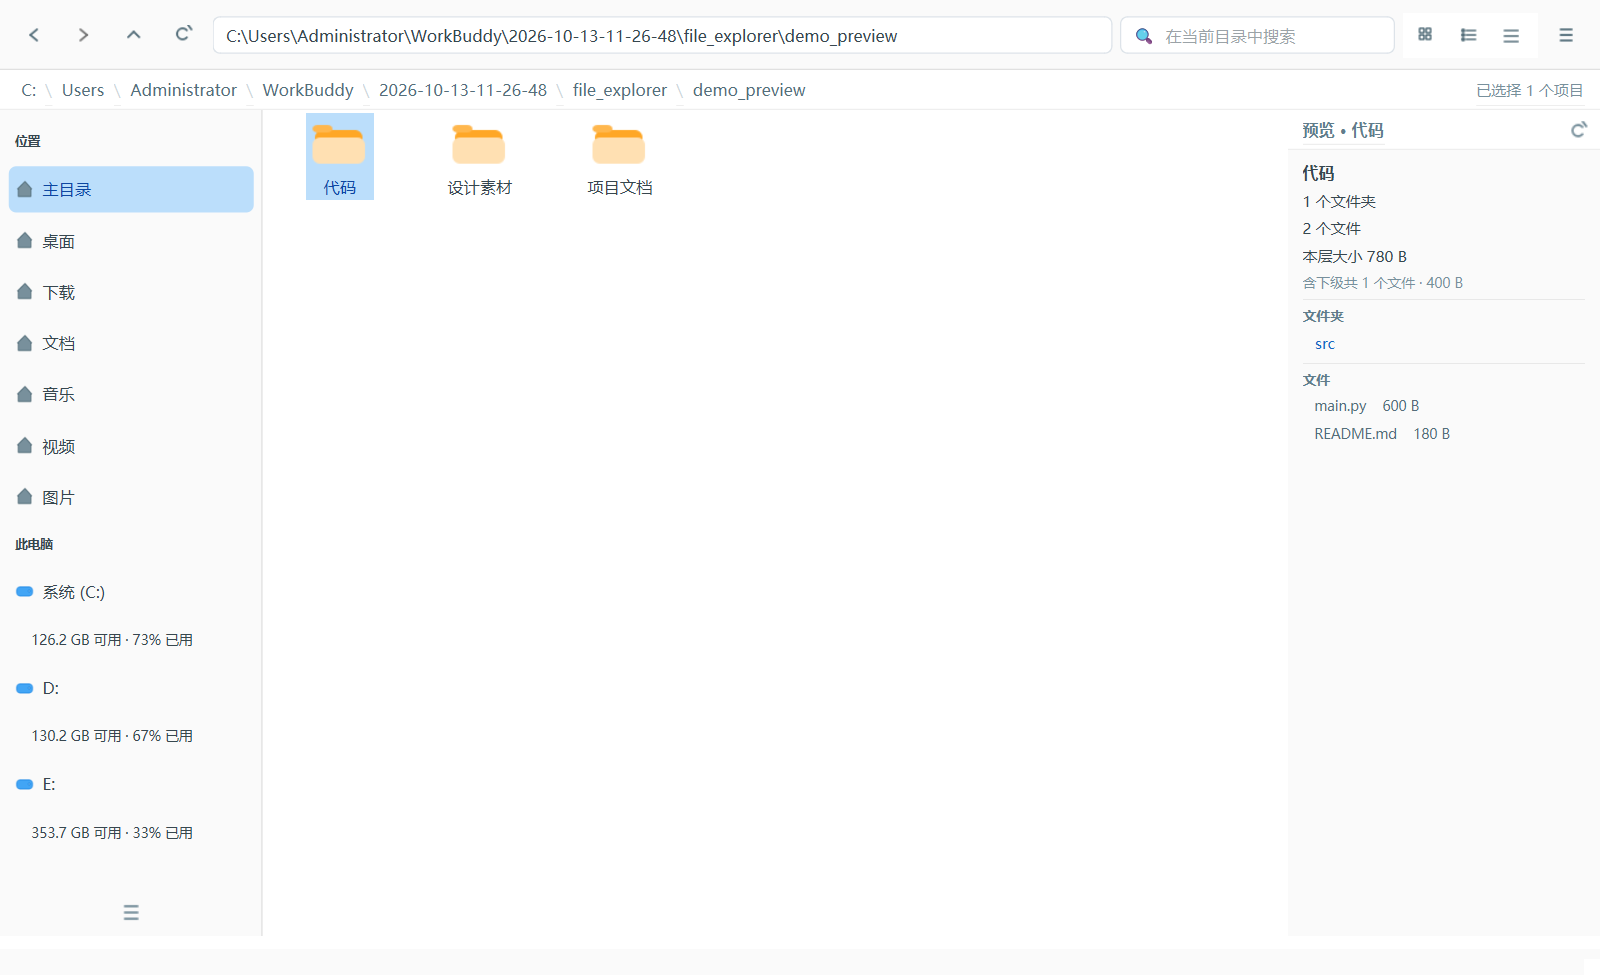
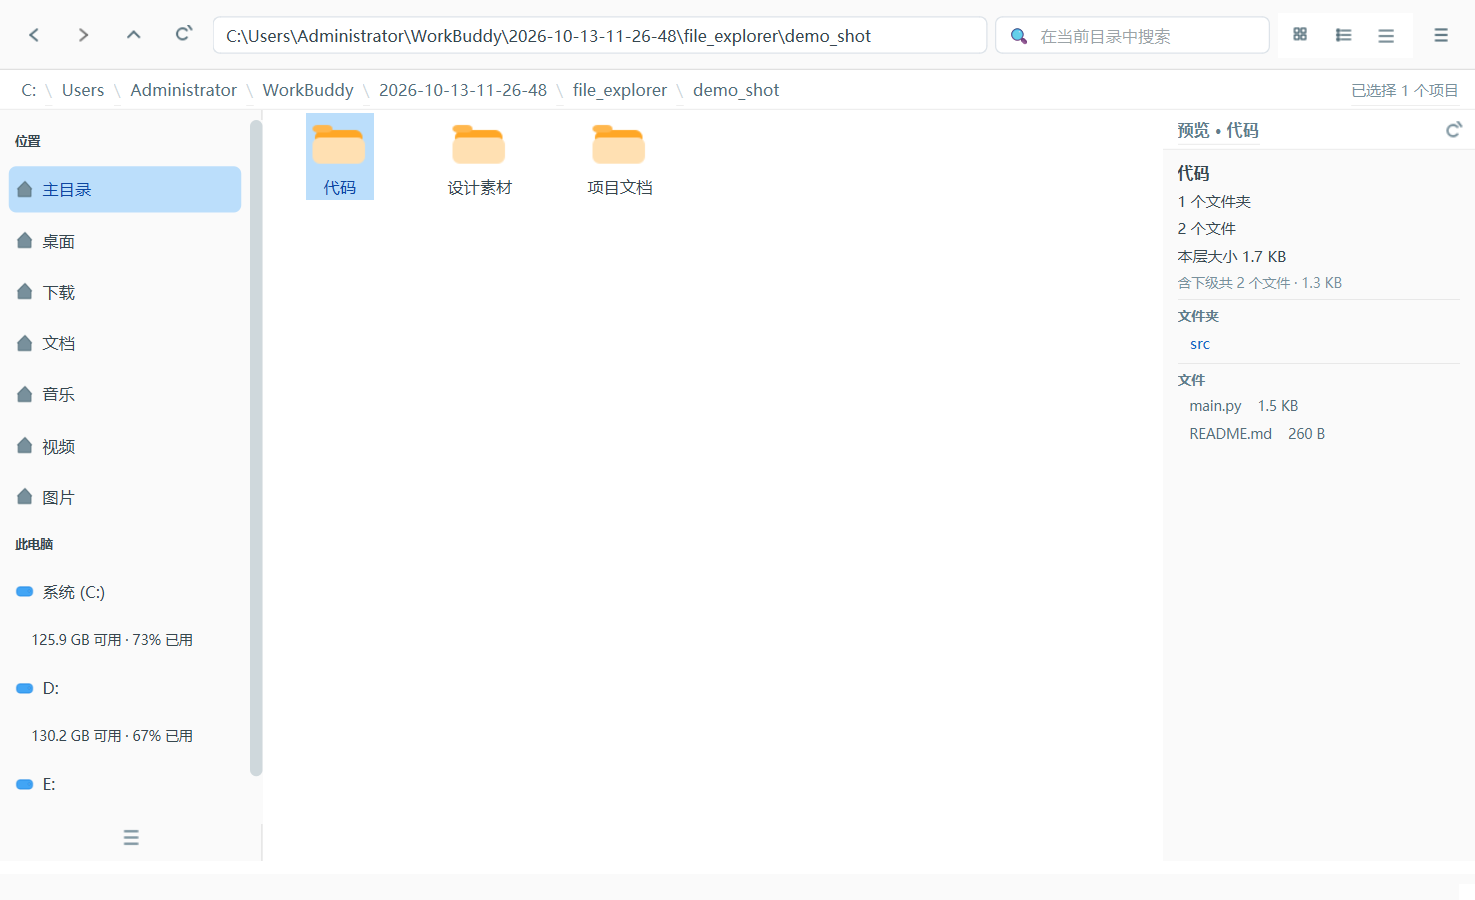
fix: 重新打包 exe 并加强预览窗格的可见性
用户反馈「没看到区别」—— 原因是 dist/QtExplorer/QtExplorer.exe 仍是
13:06 构建的版本，而预览功能是 17:03 才写的，exe 里根本没有这个功能。
源码改了但没重新打包，这类问题很容易被误判成「功能没生效」。

本次改动：
- 用 --clean 重新打包 exe，确保包含预览窗格代码
- 预览空状态提示改为虚线框 + 三行引导文案（原来只有两行灰色小字，
  在灰底上几乎不可见，容易让人以为没有这个功能）
- hint 从无拉伸改为 addStretch(1)，占位区域撑满整栏
- 新增 shoot_preview.py 生成演示截图（含选中与未选中两种状态）
- 新增 shot_preview_empty.png 展示未选中时的占位提示

验证 exe 确实含预览代码（不只看时间戳）：
用 PyInstaller 自己的读取器从 exe 提取 PYZ 并反汇编 main_window，
列出 155 个代码对象，其中包含 PreviewPane、_PreviewScanner、
toggle_preview —— 确认新代码已进包。

同时确认布局在各宽度下都正常：
800x600 -> [210, 332, 250]、1600x900 -> [210, 1132, 250]，
预览栏稳定 250px，不会被压成 0 宽。

测试：test_preview.py 38 项 + smoke_test.py 77 项全部通过。

diff --git a/shoot_preview.py b/shoot_preview.py
@@ -1,0 +1,85 @@
+"""生成预览窗格的演示截图。"""
+import os
+import shutil
+import sys
+
+sys.path.insert(0, os.path.dirname(os.path.abspath(__file__)))
+
+from PySide6.QtCore import Qt, QTimer
+from PySide6.QtGui import QFont
+from PySide6.QtWidgets import QApplication
+
+from main_window import Explorer
+
+HERE = os.path.dirname(os.path.abspath(__file__))
+DEMO = os.path.join(HERE, "demo_shot")
+
+TREE = {
+    "项目文档": {"设计稿": {}, "产品需求.pdf": 2400, "会议纪要.docx": 1100},
+    "设计素材": {"banner.png": 1800, "icon.svg": 300},
+    "代码": {"src": {"app.py": 900, "utils": {"helper.py": 420}},
+             "main.py": 1500, "README.md": 260},
+}
+
+
+def build_demo():
+    shutil.rmtree(DEMO, ignore_errors=True)
+    for name, content in TREE.items():
+        base = os.path.join(DEMO, name)
+        walk(content, base)
+
+
+def walk(content, base):
+    os.makedirs(base, exist_ok=True)
+    for k, v in content.items():
+        p = os.path.join(base, k)
+        if isinstance(v, dict):
+            walk(v, p)
+        else:
+            with open(p, "wb") as f:
+                f.write(b"\0" * v)
+
+
+def main():
+    app = QApplication.instance() or QApplication([])
+    app.setFont(QFont("Microsoft YaHei UI", 9))
+    build_demo()
+
+    w = Explorer()
+    w.resize(1180, 720)
+    w.show()
+    w.navigate(DEMO)
+
+    def pick_folder():
+        app.processEvents()
+        for i in range(w.icon_list.count()):
+            p = w.icon_list.item(i).data(Qt.ItemDataRole.UserRole)
+            if p and os.path.basename(p) == "代码":
+                w.icon_list.setCurrentRow(i)
+                return wait_preview()
+        print("没找到目标文件夹")
+        app.quit()
+
+    def wait_preview():
+        app.processEvents()
+        if w.preview.hint.isVisible():
+            QTimer.singleShot(300, wait_preview)
+            return
+        w.grab().save(os.path.join(HERE, "shot_preview.png"))
+        # 再截未选中时的占位状态
+        w.icon_list.clearSelection()
+        app.processEvents()
+        QTimer.singleShot(300, shot_empty)
+
+    def shot_empty():
+        app.processEvents()
+        w.grab().save(os.path.join(HERE, "shot_preview_empty.png"))
+        app.quit()
+
+    QTimer.singleShot(1200, pick_folder)
+    app.exec()
+    print("已生成 shot_preview.png 与 shot_preview_empty.png")
+
+
+if __name__ == "__main__":
+    main()

diff --git a/main_window.py b/main_window.py
@@ -461,12 +461,13 @@ class PreviewPane(QFrame):
         v.addWidget(self.scroll, 1)
 
         # 空状态提示
-        self.hint = QLabel("选中一个文件夹\n即可在此预览其下级内容")
+        self.hint = QLabel("预览窗格\n\n在左侧点选一个文件夹\n这里会显示它的下级内容")
         self.hint.setAlignment(Qt.AlignmentFlag.AlignCenter)
         self.hint.setWordWrap(True)
         self.hint.setStyleSheet(
-            "color:#B0BEC5;background:#FAFAFA;font-size:12px;padding:0 22px;")
-        v.addWidget(self.hint)
+            "color:#90A4AE;background:#FAFAFA;font-size:12px;"
+            "padding:0 14px;border:1px dashed #CFD8DC;border-radius:6px;")
+        v.addWidget(self.hint, 1)
         self.scroll.setVisible(False)
 
         self.show_placeholder()
